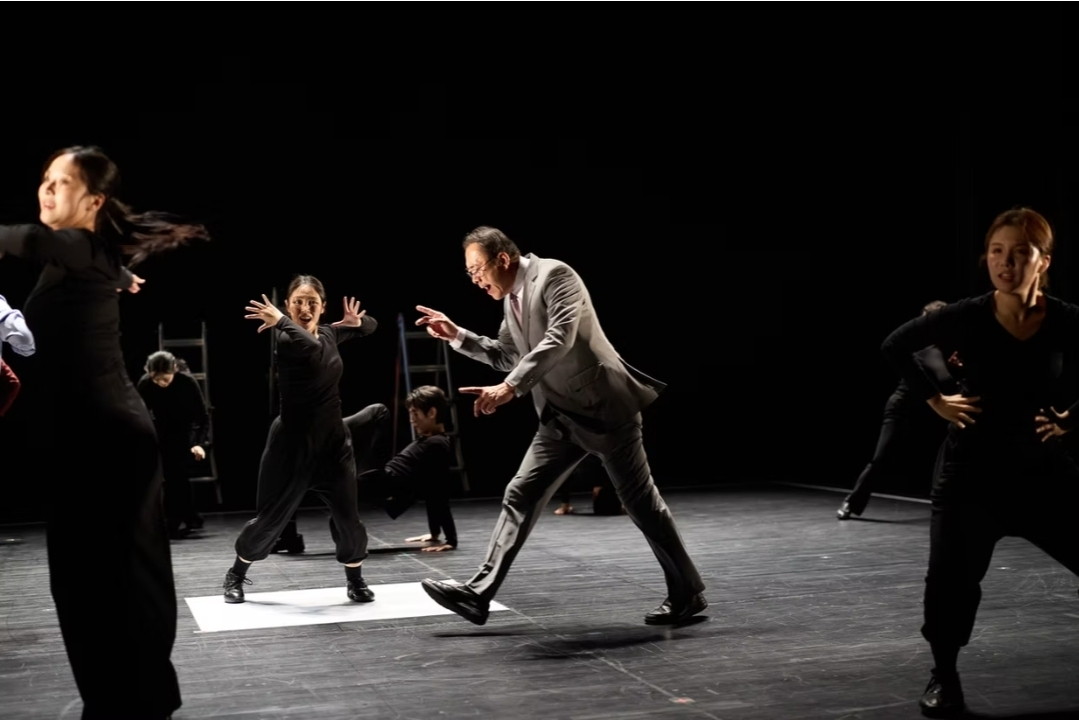
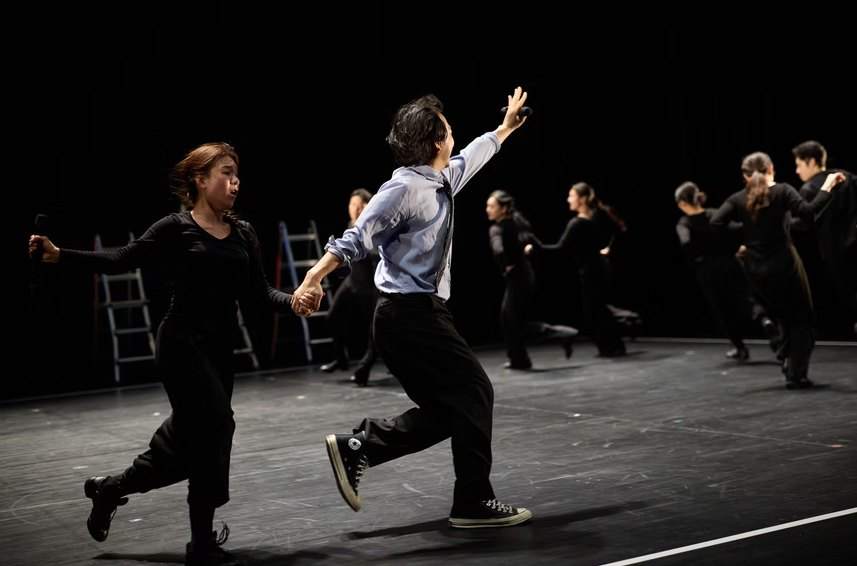
메인·CV 드라마터그 사진 교체, 분홍 고양이 파비콘 추가
Claude-Session: https://claude.ai/code/session_01LRVvMty1TVqDfDgGughD6X

diff --git a/eleventy.config.js b/eleventy.config.js
@@ -8,6 +8,7 @@ export default function (config) {
   config.addPassthroughCopy({ "src/CNAME": "CNAME" });
   // 검색엔진 소유 확인 파일. 최상위에 원래 이름 그대로 놓여야 한다
   config.addPassthroughCopy({ "src/verify": "." });
+  config.addPassthroughCopy({ "src/icons": "." });
 
   // 글 목록: 최신 글이 위로
   config.addCollection("writing", (api) =>
